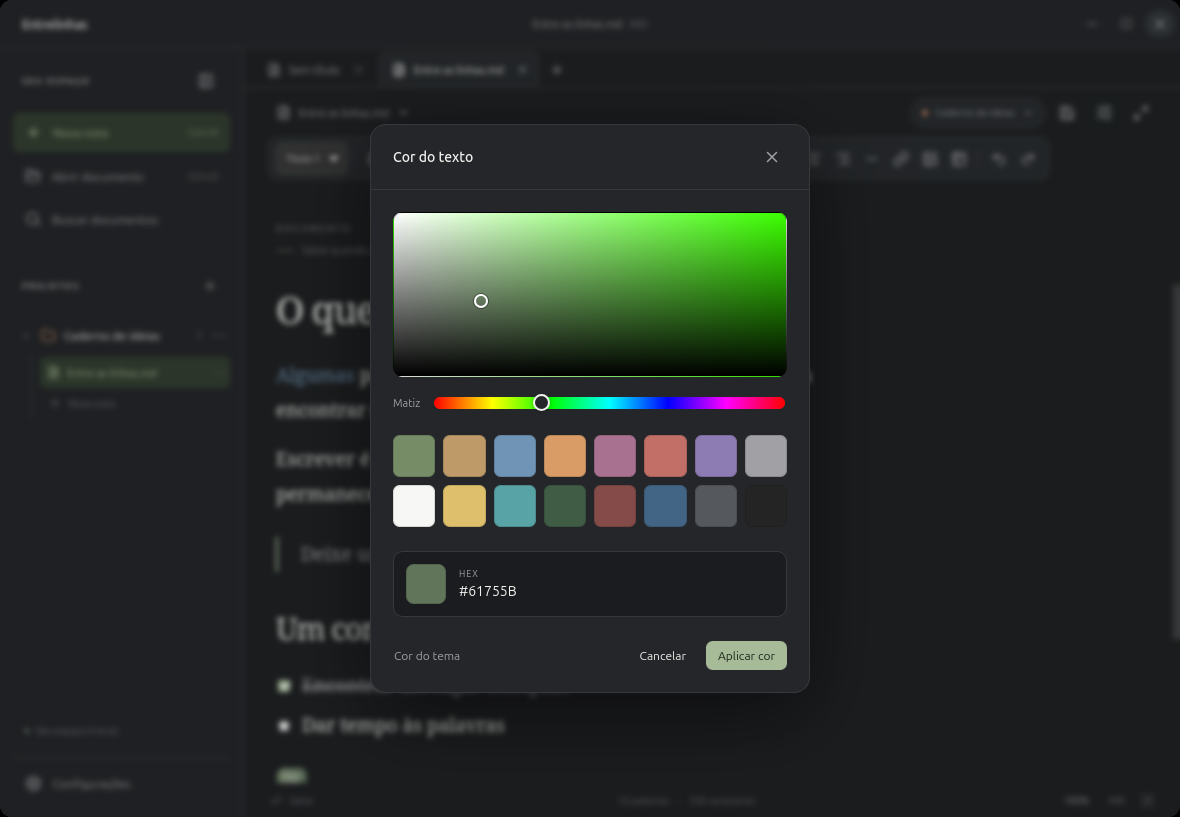
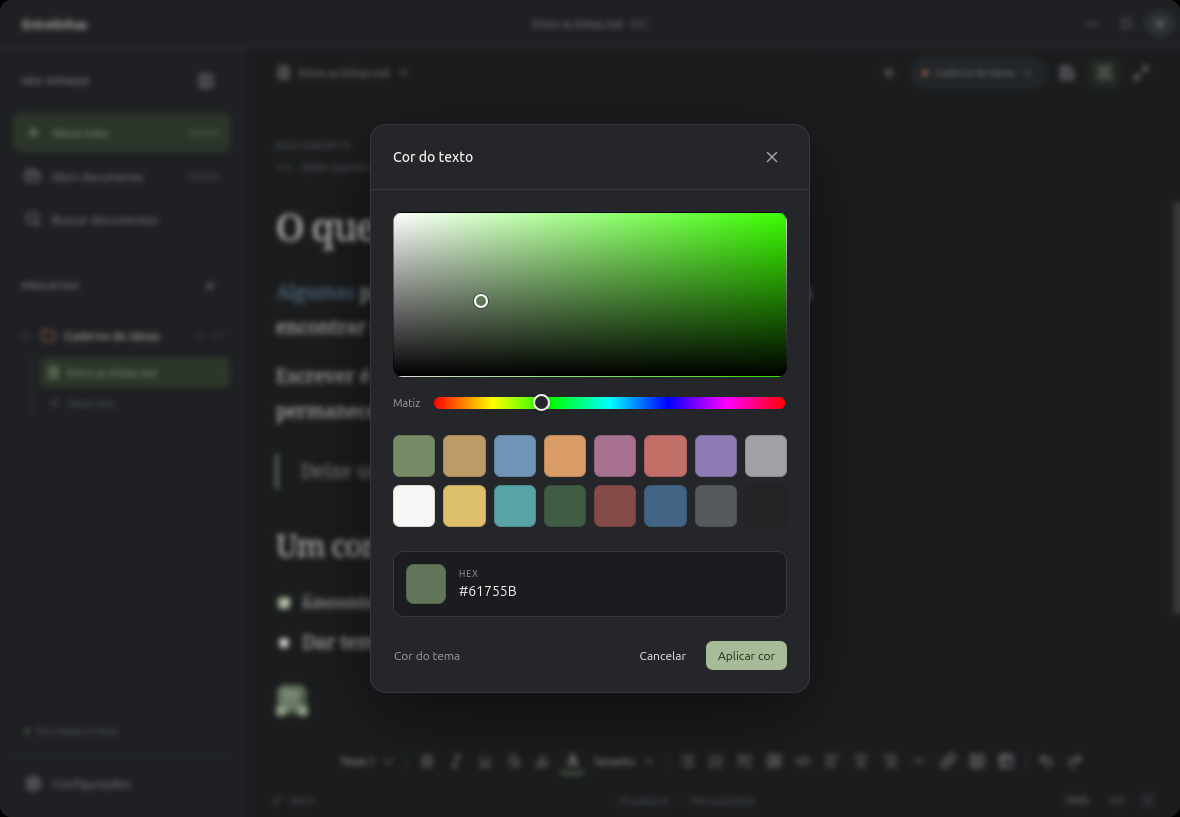
u18 - versão 0.3.0

diff --git a/scripts/test-desktop.py b/scripts/test-desktop.py
@@ -91,7 +91,11 @@ class Desktop:
 
     def choose(self, label, value):
         self.click(f'[role="combobox"][aria-label="{label}"]')
+        wait(lambda: self.js('return !!document.querySelector(".select-options")'), 'abrir menu ' + label)
+        assert self.js('const r=document.querySelector(".select-options").getBoundingClientRect();return r.left>=0 && r.top>=0 && r.right<=innerWidth && r.bottom<=innerHeight'), 'Menu fora dos limites da janela.'
         self.click(f'.select-options [role="option"][data-value="{value}"]')
+        wait(lambda: self.js('return !document.querySelector(".select-options")'), 'confirmar seleção ' + label)
+        self.paint()
 
     def keys(self, css, text):
         self.call('/element/' + self.element(css) + '/value', {'text': text})
@@ -106,8 +110,13 @@ class Desktop:
         self.key('Escape')
         wait(lambda: self.js('return getComputedStyle(document.querySelector(".titlebar")).opacity==="1"'), 'revelar interface')
 
-    def screenshot(self, path):
+    def paint(self):
+        # TipTap restaura o foco em requestAnimationFrame; aguarda também a
+        # pintura antes de iniciar a próxima interação ou capturar a janela.
         self.call('/execute/async', {'script': 'const done=arguments[arguments.length-1];requestAnimationFrame(()=>requestAnimationFrame(()=>done(true)));', 'args': []})
+
+    def screenshot(self, path):
+        self.paint()
         path.write_bytes(base64.b64decode(self.call('/screenshot')))
 
     def hover(self, css):
@@ -207,6 +216,7 @@ def main():
             assert app.js('return document.title') == 'Entrelinhas'
             assert app.js('return document.querySelector(".brand").children.length') == 1
             assert app.js('return document.querySelectorAll("[role=tab]").length') == 0
+            app.screenshot(output / 'blank.png')
             passed('inicialização em nota vazia')
             original_rect = app.call('/window/rect')
             for width in (720, 1500):
@@ -256,6 +266,7 @@ def main():
             project_id = app.ipc('load_library')['projects'][0]['id']
             assert app.ipc('load_library')['projects'][0]['color'] == '#b37a59'
             app.click('[aria-label="Projeto do documento atual"]')
+            app.screenshot(output / 'project-picker.png')
             app.click(f'[role="option"][data-project-id="{project_id}"]')
             wait(lambda: app.js('return document.querySelector(".project-assignment").innerText.includes("Caderno de ideias")'), 'selecionar projeto no painel do aplicativo')
             rich = '<h1>O que cabe entre as linhas</h1><p>Algumas ideias só precisam de um pouco de espaço para encontrar sua própria forma.</p><p>Escrever é também prestar atenção: ao que passou, ao que permanece e ao que ainda pode nascer.</p><blockquote><p>Deixe uma página aberta para o inesperado.</p></blockquote><h2>Um começo simples</h2><ul data-type="taskList"><li data-type="taskItem" data-checked="true"><div><p>Encontrar um lugar tranquilo</p></div></li><li data-type="taskItem" data-checked="false"><div><p>Dar tempo às ideias</p></div></li></ul>'
@@ -335,7 +346,20 @@ def main():
             app.hover('[aria-label="Negrito (Ctrl+B)"]')
             wait(lambda: app.js('return document.querySelector("[role=tooltip]")?.innerText.includes("Negrito")'), 'dica acima da formatação')
             assert app.js('return document.querySelector("[role=tooltip]").getBoundingClientRect().bottom <= document.querySelector(".formatting").getBoundingClientRect().top')
+            wait(lambda: app.js('return getComputedStyle(document.querySelector("[role=tooltip]")).opacity') == '1', 'terminar animação da dica inferior')
             app.screenshot(output / 'tooltip-formatting.png')
+            app.call('/window/rect', {'width': 720, 'height': 780})
+            wait(lambda: app.js('return innerWidth') == 720, 'testar formatação em janela estreita')
+            app.call('/execute/async', {'script': 'const done=arguments[arguments.length-1];requestAnimationFrame(()=>requestAnimationFrame(()=>done(true)));', 'args': []})
+            assert app.js('const r=document.querySelector(".formatting").getBoundingClientRect();return r.left>=0 && r.right<=innerWidth && r.bottom<=innerHeight-30')
+            before_tools = app.js('return document.querySelector(".editor-scroll:not(.inactive) .tiptap").getBoundingClientRect().toJSON()')
+            app.key('f', ctrl=True, shift=True)
+            wait(lambda: app.js('return document.querySelector(".app").classList.contains("immersive")'), 'ocultar ferramentas inferiores')
+            after_tools = app.js('return document.querySelector(".editor-scroll:not(.inactive) .tiptap").getBoundingClientRect().toJSON()')
+            assert before_tools['left'] == after_tools['left'] and before_tools['top'] == after_tools['top'] and before_tools['width'] == after_tools['width']
+            app.reveal()
+            app.call('/window/rect', original_rect)
+            wait(lambda: app.js('return innerWidth') == original_rect['width'], 'restaurar janela após testar ferramentas')
             passed('formatação inferior sem moldura e seletores preservam a seleção')
             app.click('[aria-label="Cor do texto"]')
             app.click('[aria-label="Usar cor #6f94b5"]')

diff --git a/README.md b/README.md
@@ -12,11 +12,12 @@ Entrelinhas é um editor **desktop de verdade**, feito com Tauri 2, React e Type
 - **Nenhum salvamento automático, recuperação de rascunhos ou restauração de abas.**
 - Salvamento manual em arquivos Markdown e TXT comuns, em qualquer pasta.
 - Projetos lógicos com nome, cor, ícone opcional e referências a documentos externos.
-- Abas reordenáveis; conteúdo, seleção e histórico de edição mantidos ao alternar entre elas.
+- Guias ocultas com uma única nota; botão **Nova guia** e **Ctrl+T** revelam a faixa ao abrir a segunda. Guias reordenáveis, com conteúdo, seleção e histórico preservados ao alternar.
 - Interface imersiva automática, alternância manual, acesso por Esc e aproximação das bordas.
 - Três temas: Claro, Escuro e Sépia Noturno, com escolha na primeira abertura e respeito às preferências de instalações anteriores.
 - Coluna de escrita centralizada na janela inteira, com limite de largura e posição estável ao esconder os controles.
-- Seletores de projeto e de cor próprios, com o tema do aplicativo e fundo desfocado.
+- Seletores próprios para projeto, cor, fonte, formato, layout e formatação, acompanhando os três temas. Painéis preservam o fundo desfocado.
+- Formatação na parte inferior, com botões sem moldura, e dicas temáticas com nomes e atalhos ao passar o mouse ou navegar pelo teclado.
 - Cursor em bloco, fino ou invisível; fonte, tamanho, largura, zoom e entrelinha configuráveis.
 - Navegação à esquerda ou à direita, redimensionável; abas superiores ou laterais. Em janelas estreitas, as abas voltam ao topo para manter uma coluna confortável.
 - Busca e substituição no documento; busca por nome e conteúdo nos arquivos salvos registrados.
@@ -34,7 +35,7 @@ As gravações usam arquivo temporário na pasta de destino, sincronização e r
 
 ## Editor e formatos
 
-O editor usa TipTap/ProseMirror, com desfazer/refazer, composição de texto, Unicode e quebra automática de linhas. A barra de ferramentas fica disponível pelo botão de ajustes no documento ou pela seleção de texto.
+O editor usa TipTap/ProseMirror, com desfazer/refazer, composição de texto, Unicode e quebra automática de linhas. Os botões de formatação ficam na parte inferior, sem uma moldura ao redor. O botão de ajustes no documento revela as ferramentas completas; selecionar texto revela os controles essenciais no mesmo lugar.
 
 Suporta negrito, itálico, sublinhado, tachado, títulos, listas, checklists interativas, citações, código, links, separadores, alinhamento, destaque, cores, tamanho de texto, imagens e tabelas com edição de linhas e colunas.
 
@@ -60,9 +61,9 @@ As capturas abaixo são da janela Tauri real, executada no Ubuntu 26.10 com Wayl
 | ------------------------------------ | ------------------------------------ | -------------------------------------------- |
 | ![Claro](docs/screenshots/light.png) | ![Escuro](docs/screenshots/dark.png) | ![Sépia Noturno](docs/screenshots/sepia.png) |
 
-[Ver o modo imersivo](docs/screenshots/imersivo.png) · [Escolha inicial de tema](docs/screenshots/welcome.png) · [Seletor de cores no Sépia Noturno](docs/screenshots/color-sepia.png) · [Seleção de projeto](docs/screenshots/project-picker.png).
+[Ver o modo imersivo](docs/screenshots/imersivo.png) · [Escolha inicial de tema](docs/screenshots/welcome.png) · [Seletor de cores no Sépia Noturno](docs/screenshots/color-sepia.png) · [Seleção de projeto](docs/screenshots/project-picker.png) · [Menus temáticos](docs/screenshots/select-sepia.png) · [Formatação inferior](docs/screenshots/formatting-bottom.png) · [Dicas de botões](docs/screenshots/tooltip-sepia.png).
 
-Os seletores nativos acompanham o modo claro ou escuro do aplicativo; Sépia Noturno usa a variante escura do GTK.
+Os menus de seleção e as dicas usam as cores do tema do aplicativo. Os seletores de opções permitem navegar com setas, Home/End, digitar o início do nome e confirmar com Enter; Esc cancela a seleção sem fechar as configurações. Os diálogos do sistema para abrir e salvar arquivos acompanham o modo claro ou escuro; Sépia Noturno usa a variante escura do GTK.
 
 O cursor em bloco usa as coordenadas reais da seleção do ProseMirror e a largura do próximo grafema. Durante composição IME, a camada visual cede ao cursor nativo. Preferências de movimento reduzido são respeitadas.
 
@@ -72,12 +73,12 @@ O projeto foi compilado e verificado no **Ubuntu 26.10, x86_64, GNOME/Wayland**.
 
 ### Pacote Debian
 
-[Baixe o instalador e os checksums da versão 0.2.0](https://github.com/Bit-Devy/entrelinhas/releases/tag/v0.2.0).
+[Baixe o instalador e os checksums da versão 0.3.0](https://github.com/Bit-Devy/entrelinhas/releases/tag/v0.3.0).
 
 Para instalar um pacote compilado localmente:
 
 ```bash
-sudo apt install ./src-tauri/target/release/bundle/deb/Entrelinhas_0.2.0_amd64.deb
+sudo apt install ./src-tauri/target/release/bundle/deb/Entrelinhas_0.3.0_amd64.deb
 ```
 
 O aplicativo aparece no menu como **Entrelinhas**, com ícone próprio. O pacote depende do WebKitGTK 4.1 e GTK 3 do sistema. Uma compilação feita no Ubuntu 26.10 não garante compatibilidade binária com versões anteriores do Ubuntu; para elas, compile no sistema de destino.
@@ -156,9 +157,9 @@ python3 scripts/test-desktop.py --binary src-tauri/target/release/entrelinhas
 
 ### Verificações realizadas
 
-- **46 testes TypeScript:** notas, abas, descarte, preferências, atalhos, Markdown, formatação, TXT, Unicode, busca, imagens, gravação explícita, conflitos, espera de gravações, centralização com diferentes painéis, seletores próprios e primeira escolha de tema.
+- **58 testes TypeScript:** notas, abas, descarte, preferências, atalhos, Markdown, formatação, TXT, Unicode, busca, imagens, gravação explícita, conflitos, espera de gravações, centralização com diferentes painéis, seletores próprios por mouse e teclado, dicas, guias sob demanda, abertura sem perder texto e primeira escolha de tema.
 - **6 testes Rust:** gravação atômica, conflitos, UTF-8, nomes internacionais, imagens relativas, arquivos somente leitura, recursos inválidos, projetos em Downloads, exclusão sem apagar documentos, localização e busca.
-- **20 verificações desktop:** inicialização, ocultação sem deslocamento, Esc, descarte após reiniciar, Ctrl+S com seletor GNOME, associação externa, abas, busca/substituição, colagem de imagens, temas, cursores, persistência, layout, F11, conflitos, busca global, confirmação opcional, TXT, paleta de cores nos três temas, primeira abertura e centralização ao redimensionar.
+- **23 verificações desktop:** inicialização, ocultação sem deslocamento, Esc, descarte após reiniciar, Ctrl+S com seletor GNOME, associação externa, abas, busca/substituição, colagem de imagens, temas, cursores, persistência, layout, F11, conflitos, busca global, confirmação opcional, TXT, paleta de cores nos três temas, primeira abertura, centralização ao redimensionar, formatação inferior sem moldura, menus de tabela e dicas nos três temas.
 - O roteiro desktop também passou no **executável otimizado de produção, com o Vite desligado**.
 - Documento de **280 mil caracteres** carregado e editado no roteiro desktop. O tempo medido inclui definir o conteúdo e inserir texto; não representa um benchmark de latência por tecla.
 
@@ -175,6 +176,7 @@ Os testes verificam Unicode e o tratamento de eventos de composição. **Uma ses
 | Ação                                | Atalho padrão                   |
 | ----------------------------------- | ------------------------------- |
 | Nova nota                           | Ctrl+N                          |
+| Nova guia                           | Ctrl+T                          |
 | Abrir documento                     | Ctrl+O                          |
 | Salvar                              | Ctrl+S                          |
 | Salvar como                         | Ctrl+Shift+S                    |
@@ -188,6 +190,8 @@ Os testes verificam Unicode e o tratamento de eventos de composição. **Uma ses
 | Menu do documento                   | Alt+F; setas para navegar       |
 | Tela cheia                          | F11                             |
 | Aumentar / reduzir / restaurar zoom | Ctrl+Plus / Ctrl+Minus / Ctrl+0 |
+
+Abrir o primeiro arquivo reutiliza a nota vazia inicial. Texto ou projeto já escolhidos nessa nota são preservados em uma guia separada. Ao voltar a uma única nota, a faixa de guias se recolhe.
 
 Os atalhos principais podem ser personalizados em **Configurações → Atalhos**, com verificação de combinações já utilizadas.
 
